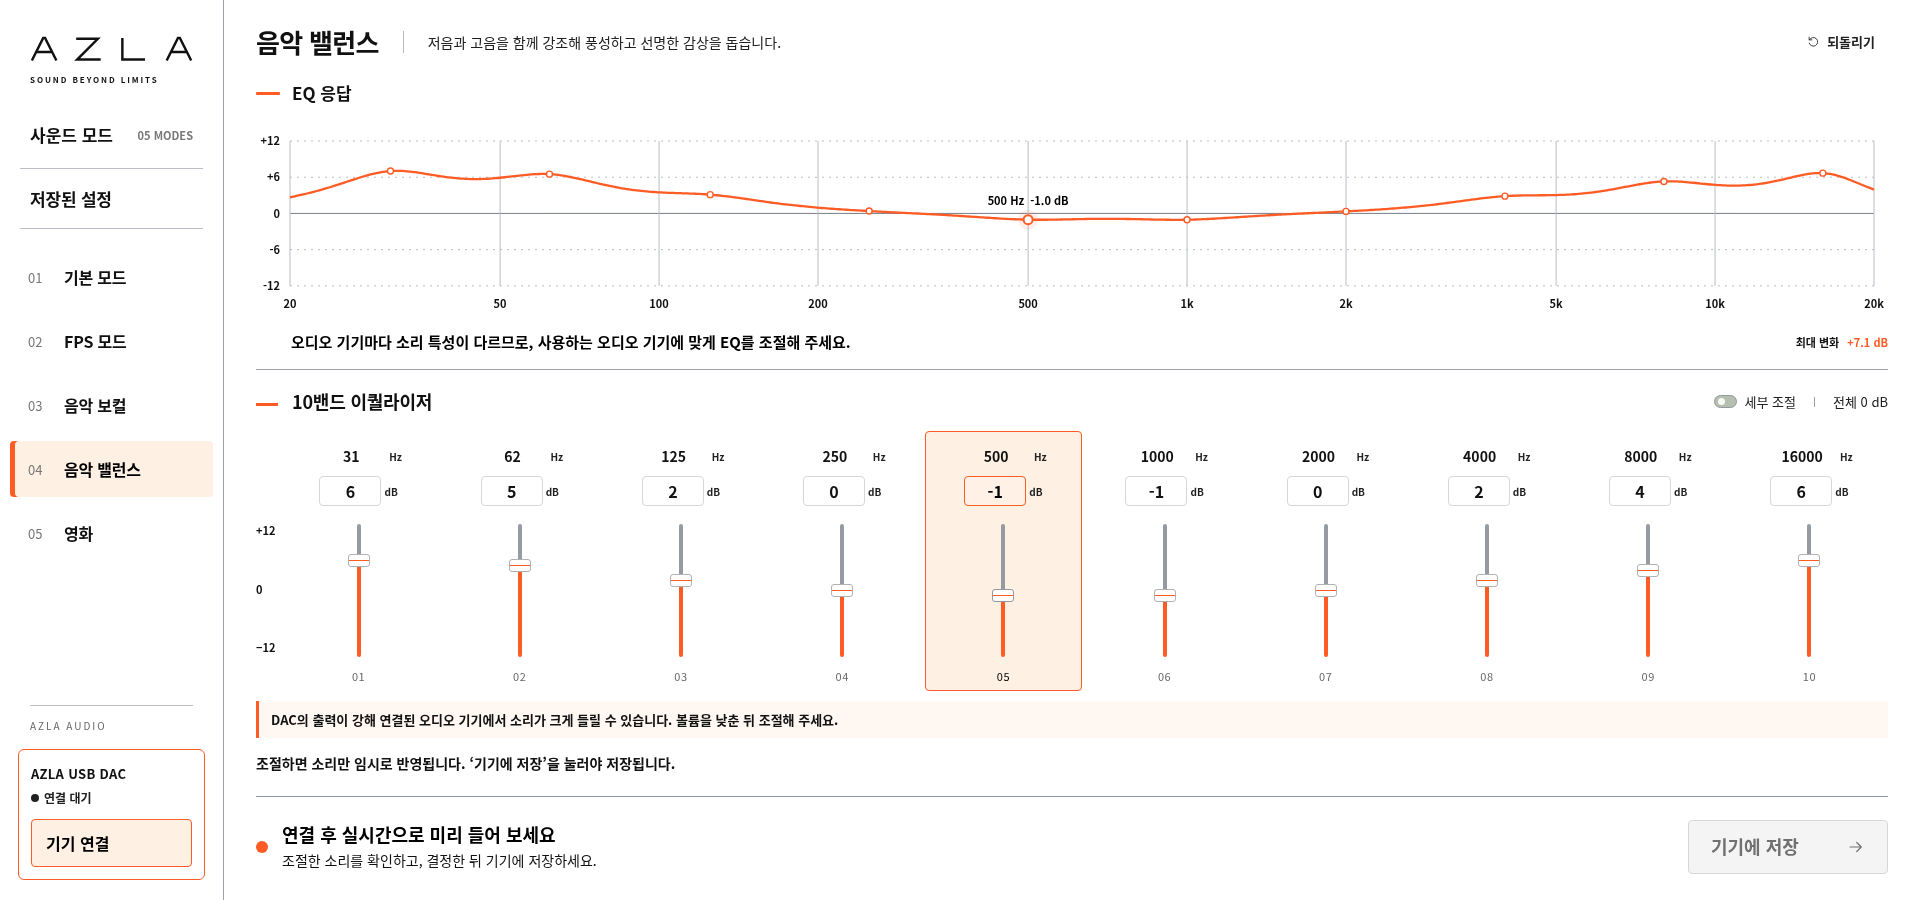
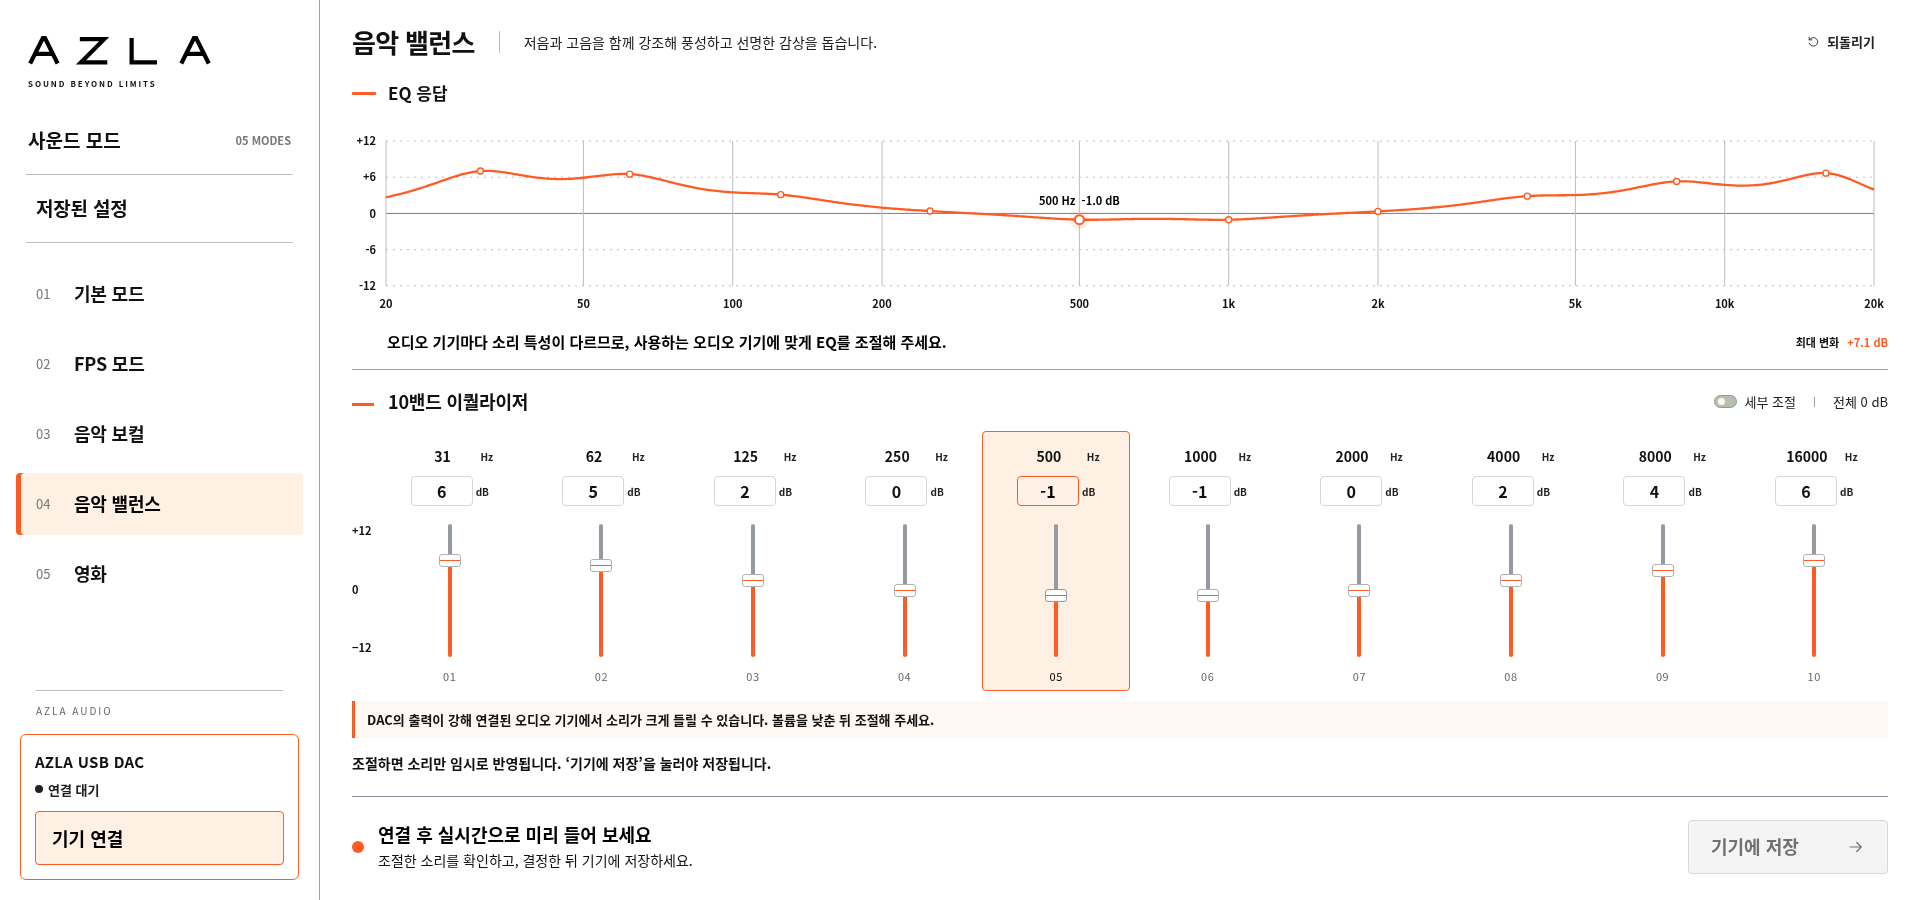
Enlarge sound mode sidebar and device connection controls

diff --git a/style.css b/style.css
@@ -387,3 +387,20 @@ body{font-weight:500}
 }
 
 .bottom-caption{display:none}
+
+/* Give the mode library and connection controls more presence on desktop. */
+@media(min-width:901px){
+ .app-shell{--sidebar-width:clamp(248px,20vw,320px);grid-template-columns:var(--sidebar-width) minmax(0,1fr)}
+ .sidebar{padding-left:16px;padding-right:16px}
+ .sidebar .brand{padding-left:12px;padding-right:12px}
+ .sidebar .brand-wordmark{width:184px;max-width:100%}
+ .sidebar-heading{padding-left:12px;padding-right:12px;font-size:19px}
+ .preset-item{min-height:62px;padding:14px 20px;gap:18px}
+ .preset-name{font-size:18px}
+ .preset-item.device-current{padding-top:19px;padding-bottom:19px}
+ .preset-item.device-current .preset-name{font-size:19px}
+ .sidebar .device-card{margin-left:4px;margin-right:4px;padding:16px 14px 14px}
+ .device-copy strong{max-width:100%;font-size:15px}
+ .device-copy>span{font-size:13px}
+ .sidebar .connect-button{min-height:54px;font-size:18px;padding:12px 16px}
+}

diff --git a/tests/browser_apply_layout.py b/tests/browser_apply_layout.py
@@ -12,7 +12,7 @@ with sync_playwright() as p:
         page.wait_for_selector('.band-column')
         for selector in ['.sidebar .brand','#connectBtn']:
             assert page.locator(selector).evaluate('el=>{const r=el.getBoundingClientRect();return r.top>=0&&r.bottom<=innerHeight&&r.left>=0&&r.right<=innerWidth&&el.contains(document.elementFromPoint(r.x+r.width/2,r.y+r.height/2))}'), selector
-        assert page.locator('#connectBtn').evaluate('el=>el.getBoundingClientRect().left<224&&el.getBoundingClientRect().top>innerHeight/2'), 'connection belongs at bottom left'
+        assert page.locator('#connectBtn').evaluate("el=>el.closest('.sidebar').contains(el)&&el.getBoundingClientRect().right<=el.closest('.sidebar').getBoundingClientRect().right&&el.getBoundingClientRect().top>innerHeight/2"), 'connection belongs at bottom left'
         for advanced in [False,True]:
             if advanced:page.locator('#advancedToggle').check()
             for scroll in [False,True]:
